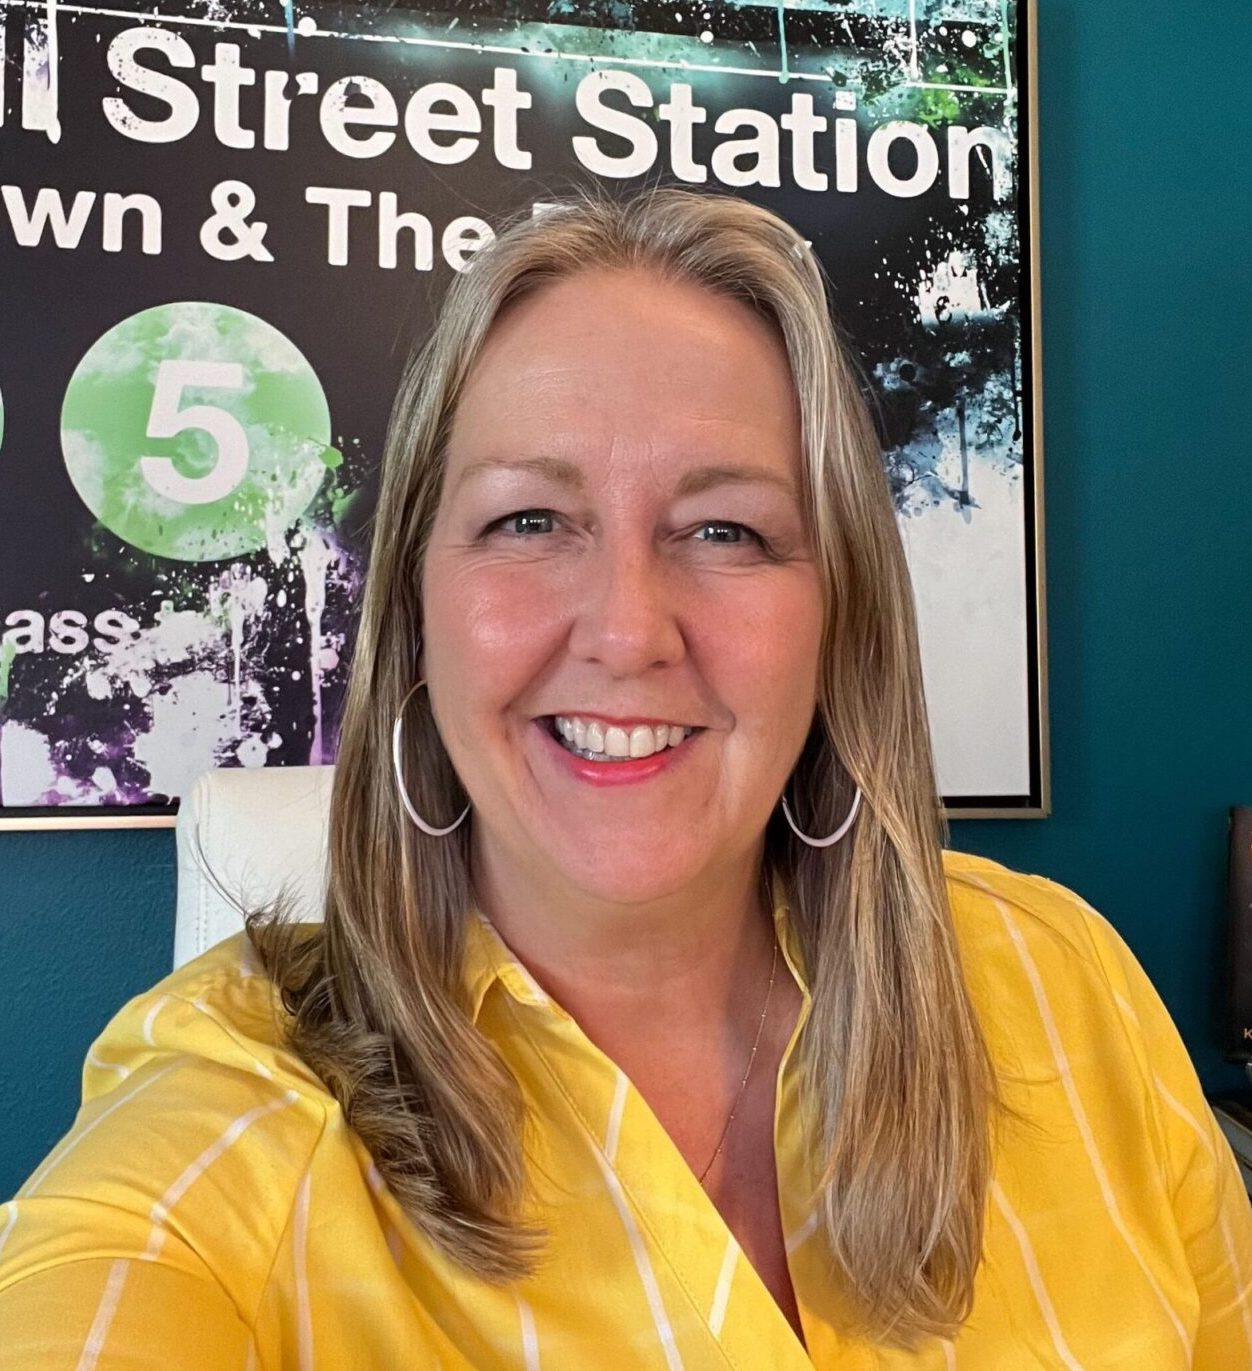
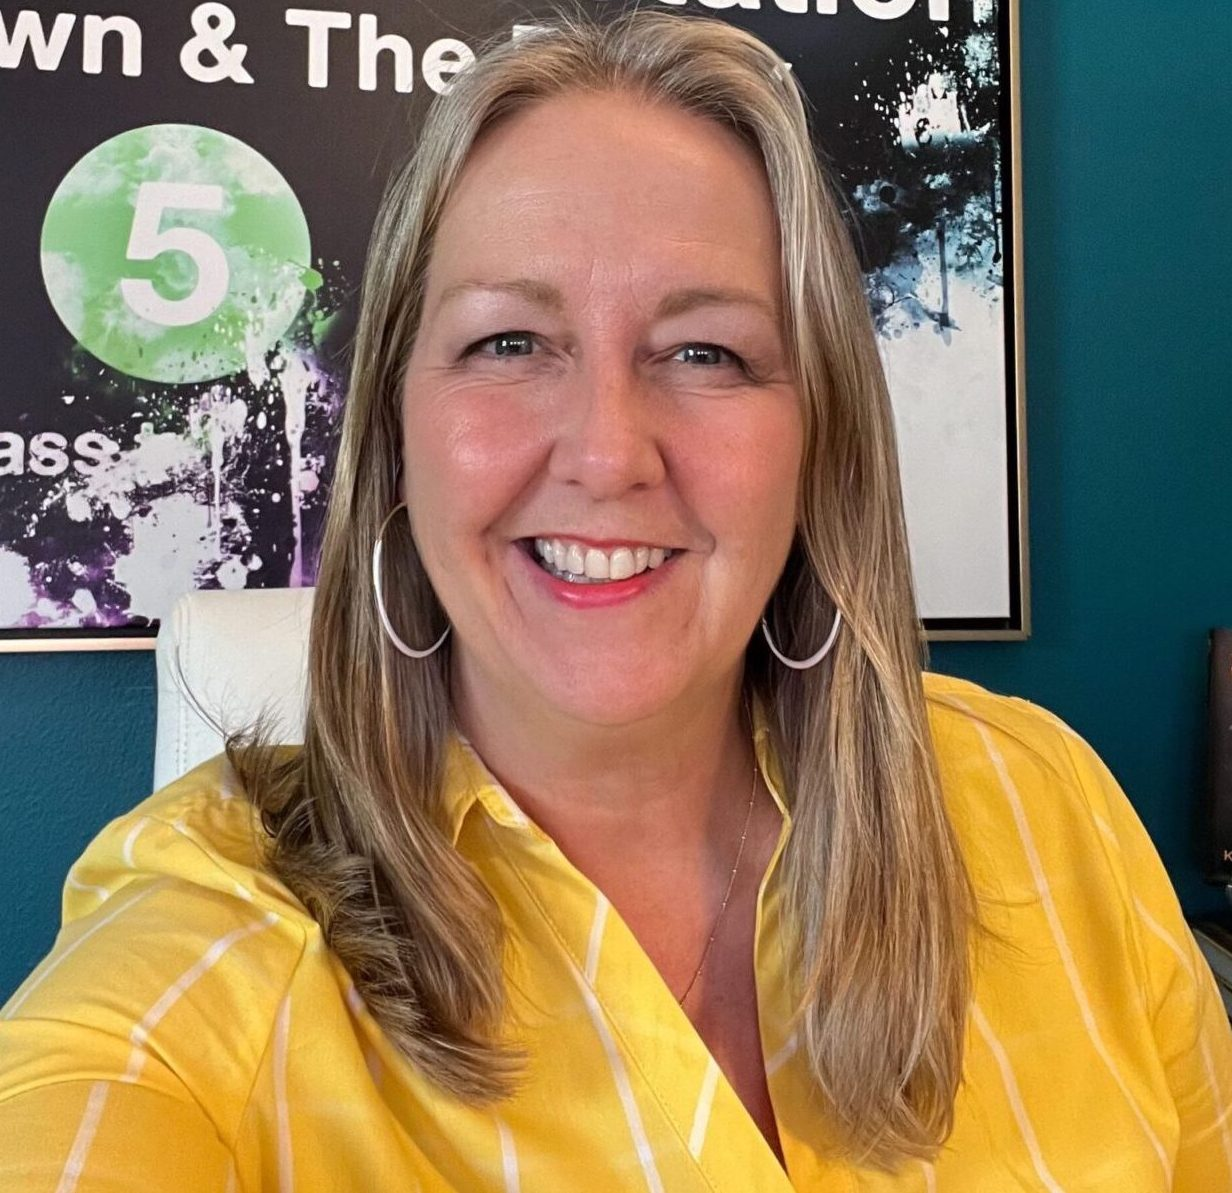
Update hero image and copy with simpler message

diff --git a/index.html b/index.html
@@ -51,15 +51,15 @@
             <div class="hero-content">
                 <div class="hero-grid">
                     <div class="hero-copy">
-                        <h1 class="hero-headline">If your system works but your P&L's dead in the water, the fix isn't
-                            in your charts, it's in your mind.</h1>
-                        <p class="hero-subheadline">Learn the mindset principles elite traders use to execute with
-                            confidence, discipline, and emotional control, so your results finally match your edge.</p>
-                        <a href="tpi.html" class="btn-cta">Get Your Trader Positioning Index</a>
+                        <h1 class="hero-headline">Your Strategy Isn't Broken. Your Execution Is.</h1>
+                        <p class="hero-subheadline">You have the technical skills. You know the setups. Yet you’re still
+                            giving back profits. Join the top 1% of traders using the Trader Positioning Index™ (TPI) to
+                            identify the exact psychological blind spots sabotaging your P&L.</p>
+                        <a href="tpi.html" class="btn-cta">Find My Blind Spots</a>
                     </div>
 
                     <div class="hero-image">
-                        <img src="TWSCsite/Images/IMG_0719-scaled-1-1536x2048.jpg.jpeg" alt="Kim Ann Curtin">
+                        <img src="TWSCsite/Images/Kim-Ann-Curtin-Hero-Crop.jpg" alt="Kim Ann Curtin">
                     </div>
                 </div>
 
